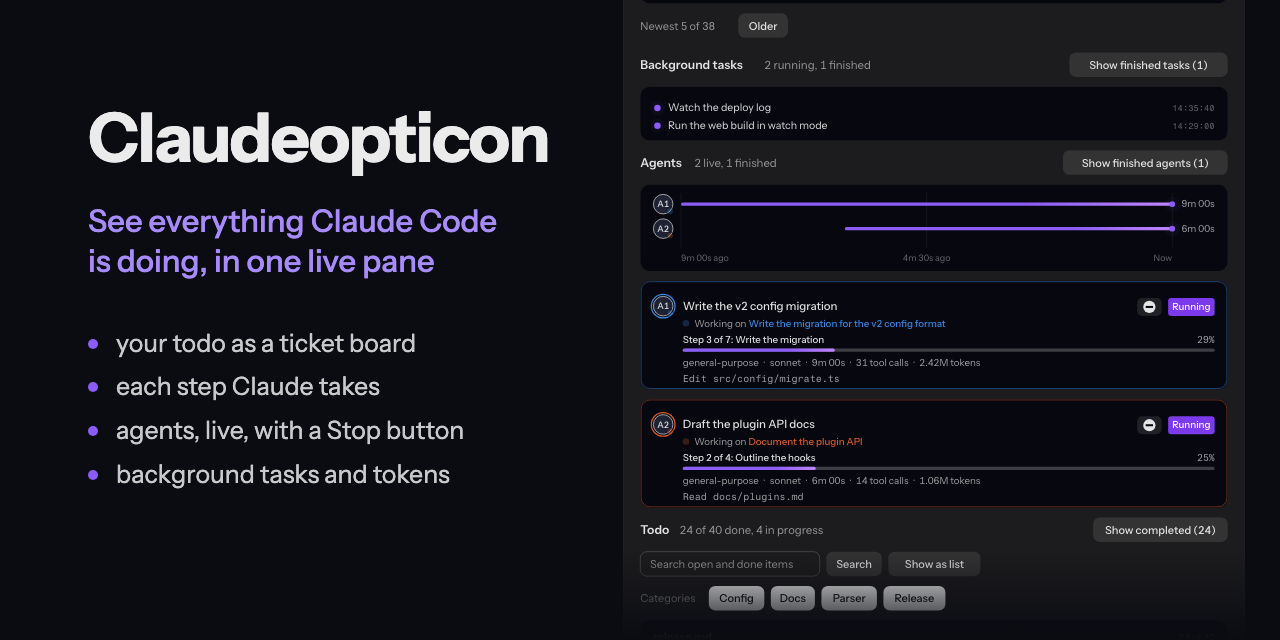
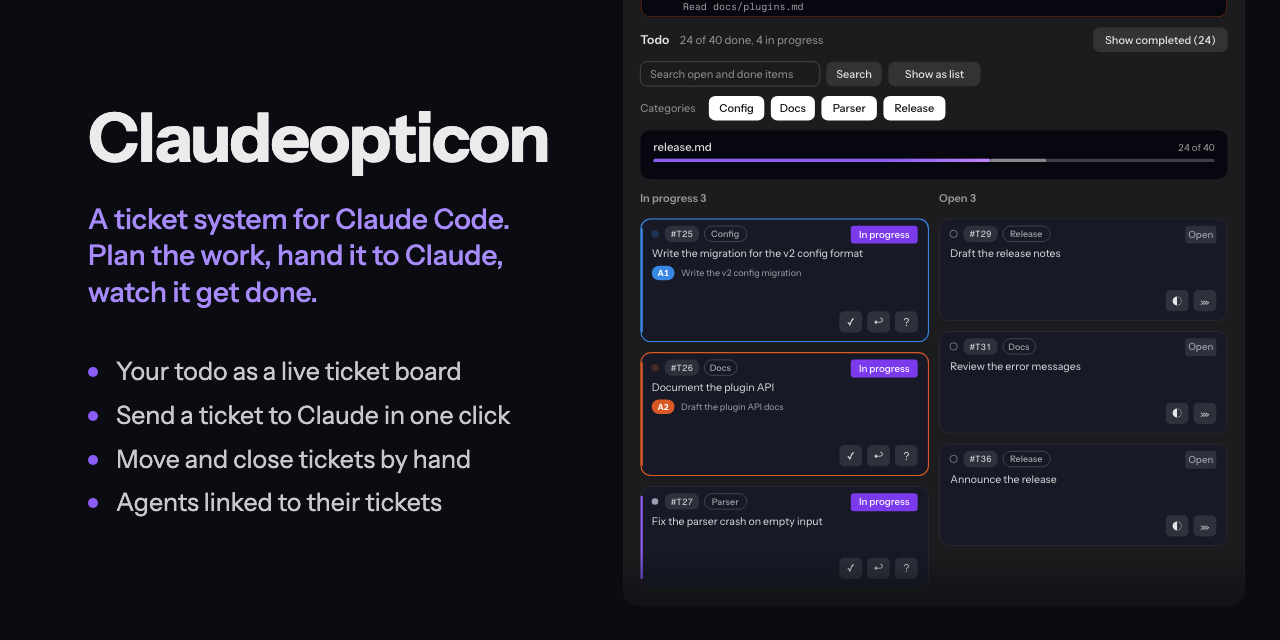
Claudeopticon 0.3.4: lead with the ticket system

diff --git a/README.md b/README.md
@@ -1,10 +1,12 @@
 # Claudeopticon
 
-**See everything Claude is doing, in one live pane.**
+**A ticket system for Claude Code. Plan the work, hand it to Claude, and watch it get done.**
 
 Claudeopticon is a mod for Claude Code. It adds a work pane next to your conversation which shows your todo list as a ticket board, what Claude is doing, what its helpers (Claude Code calls them agents) are doing, and what runs in the background. You can send a ticket to Claude, ask how it is going, or move it yourself.
 
 ![The whole Claudeopticon pane: the top card, then Orchestrator, Background tasks, Agents and the Todo board, top to bottom](docs/images/pane.svg)
+
+At its core is a ticket system that lives in your repo. Each line in `.claude_todo/` is a ticket with an ID such as `#T12`. From the board you can send a ticket to Claude, ask for a status update, or move it between Open, In progress and Done. Claude keeps each ticket's state up to date as it works, and every helper agent is linked to the tickets it works on.
 
 ## Contents
 

diff --git a/CHANGELOG.md b/CHANGELOG.md
@@ -1,5 +1,9 @@
 # Changelog
 
+## 0.3.4
+
+- The README and the plugin description lead with the ticket system.
+
 ## 0.3.3
 
 - A pane opened before 0.3.2 takes the Claudeopticon title after `/reload-plugins`, without a restart.
